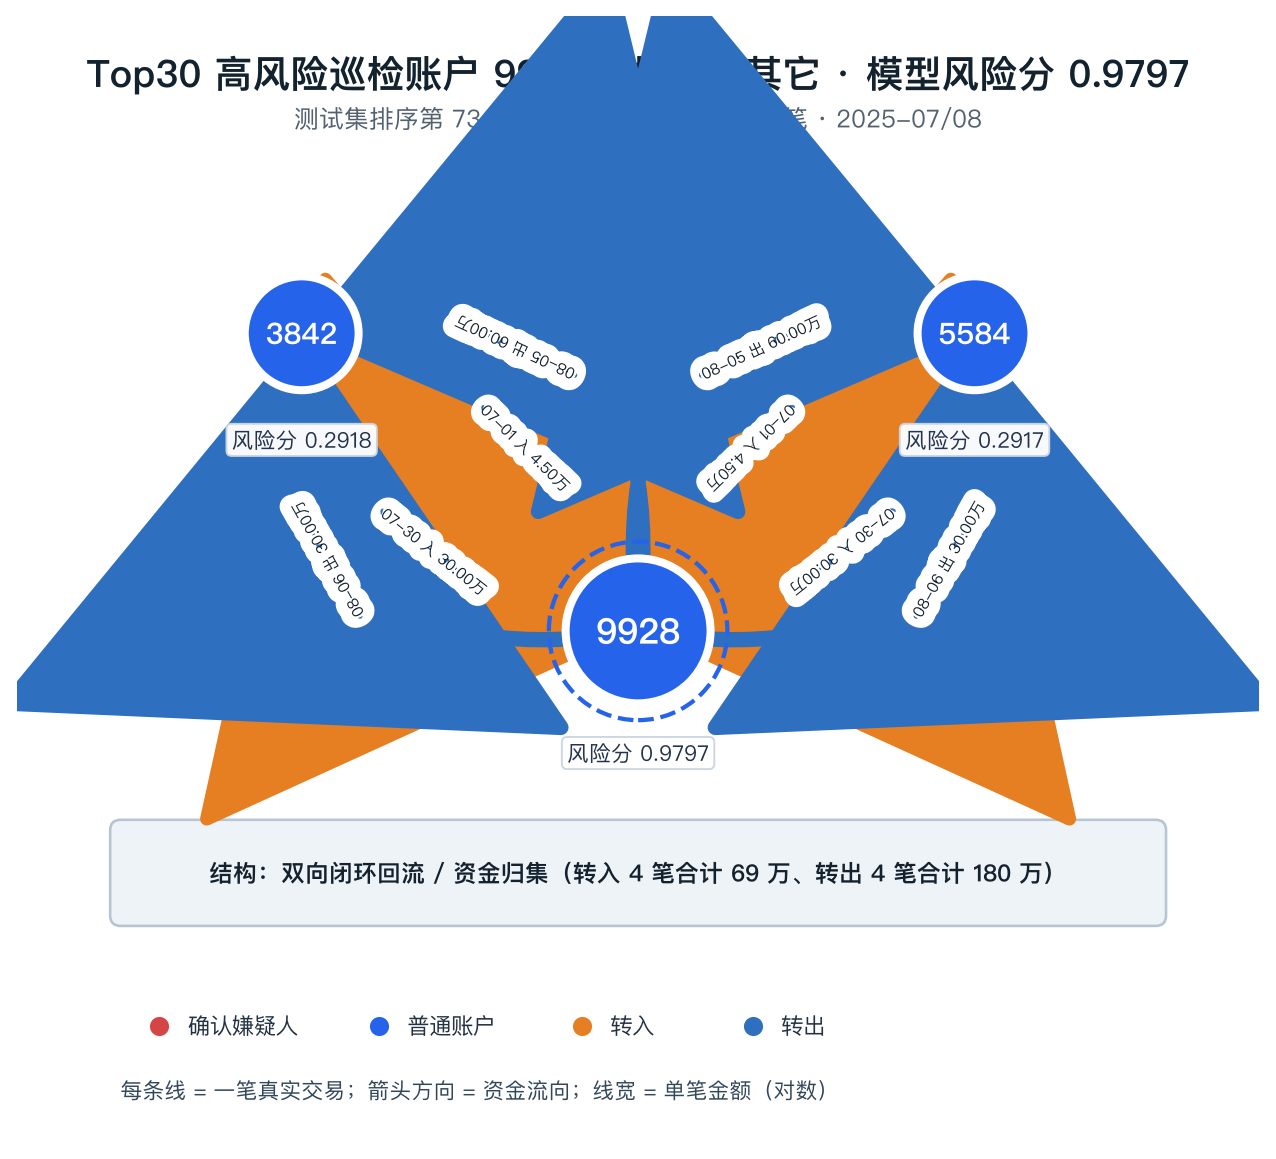
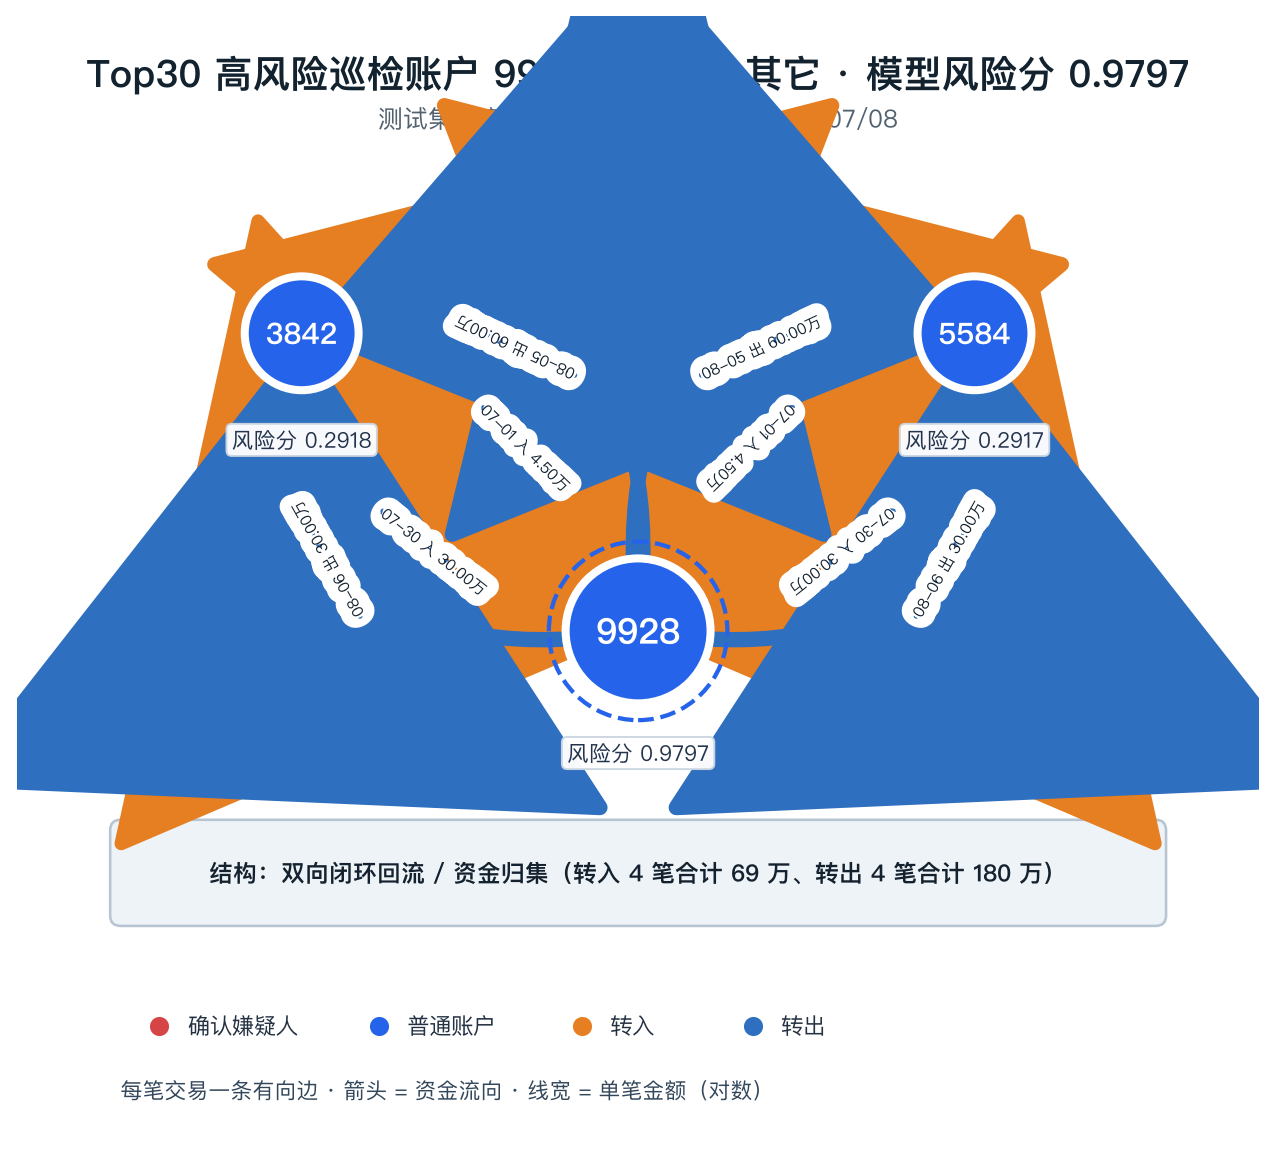
附录D图谱每笔交易一条有向边并优化文案

diff --git a/outputs/dynamic_graph/index.html b/outputs/dynamic_graph/index.html
@@ -213,7 +213,7 @@
   <main id="reportView" class="view wide"><div class="section-head"><div><h2>辅助研判报告</h2><p>报告同时引用模型风险分、交易统计、关键交易边/路径、图结构或动态特征中的至少两类证据。</p></div></div><div id="reportGrid" class="report-grid"></div><div class="subsection"><h3>报告原文</h3><pre id="rawReport" class="raw-report"></pre></div></main>
   
   <main id="evidenceView" class="view wide">
-    <div class="section-head"><div><h2>典型链路证据（测试集真实子图）</h2><p>仅展示本项目从测试集真实交易边生成的资金图谱，数据截至 2025-12-31，不含未来交易。节点颜色：红=确认嫌疑人，橙=受害人，蓝=其它；橙色箭头=转入，蓝色箭头=转出；每条线=一笔真实交易，线宽=单笔金额对数，边描述嵌在边线内（沿弧线排版，弧线在文字处断开，无底框）。</p></div></div>
+    <div class="section-head"><div><h2>典型链路证据（测试集真实子图）</h2><p>仅展示本项目从测试集真实交易边生成的资金图谱，数据截至 2025-12-31，不含未来交易。节点颜色：红=确认嫌疑人，橙=受害人，蓝=其它；橙色箭头=转入，蓝色箭头=转出；每笔交易一条有向边，线宽=单笔金额对数，边描述嵌在边线内（沿弧线排版，弧线在文字处断开，无底框）。</p></div></div>
     <div class="evidence-grid">
       <article class="evidence-card"><img src="../../docs/images/appendix_d_4379_loop.png" alt="账户4379闭环回流"><div class="card-body"><h3>账户 4379 · 确认嫌疑人 · 风险分 0.9034</h3><p>2025-11-19 15:37:53 向 10662、10949 各转出 3000 元，15:38:14 原路回流，间隔 21 秒；结构：闭环回流/快进快出。</p></div></article>
       <article class="evidence-card"><img src="../../docs/images/appendix_d_1740_star.png" alt="账户1740星状汇聚"><div class="card-body"><h3>账户 1740 · 确认嫌疑人 · 风险分 0.7460</h3><p>3863、7838 两个固定对手三期重复转入，合计 18828.88 元；结构：星状汇聚/分散入账。</p></div></article>

diff --git a/src/27_render_appendix_d_graphs.py b/src/27_render_appendix_d_graphs.py
@@ -112,8 +112,8 @@ def draw_edges(ax, fig, pos, edges: list[dict], root: int, label_fn, fontsize: f
         ru = 0.66 if u == root else 0.54
         rv = 0.66 if v == root else 0.54
         arrow = FancyArrowPatch(p1, p2, connectionstyle=f"arc3,rad={rad}",
-                                arrowstyle="-|>,head_width=4.5,head_length=6.0",
-                                mutation_scale=26, lw=width,
+                                arrowstyle="-|>,head_width=5.0,head_length=7.0",
+                                mutation_scale=27, lw=width,
                                 color=color, shrinkA=ru, shrinkB=rv, zorder=5)
         ax.add_patch(arrow)
         txt = label_fn(e, incoming)
@@ -189,7 +189,7 @@ def draw_frame(ax, title: str, subtitle: str, structure: str) -> None:
                    linewidths=1.4, zorder=6)
         ax.text(lx + 0.52, -3.05, text, ha="left", va="center", fontsize=9.5, color="#233142")
         lx += 0.52 + len(text) * 0.125 + 0.55
-    ax.text(-4.0, -3.55, "每条线 = 一笔真实交易；箭头方向 = 资金流向；线宽 = 单笔金额（对数）",
+    ax.text(-4.0, -3.55, "每笔交易一条有向边 · 箭头 = 资金流向 · 线宽 = 单笔金额（对数）",
             ha="left", va="center", fontsize=9.2, color="#33475b")
 
 
@@ -197,6 +197,8 @@ def render(root: int, positions: dict, title: str, subtitle: str, structure: str
            out_path: str, label_fn, fontsize: float = 8.2) -> None:
     edges = raw_edges(root)
     fig, ax = plt.subplots(figsize=(13.2, 8.6), dpi=170)
+    fig.patch.set_facecolor("#fbfcfe")
+    ax.set_facecolor("#fbfcfe")
     ax.set_xlim(-4.8, 4.8)
     ax.set_ylim(-3.95, 4.75)
     ax.set_aspect("equal")
@@ -223,7 +225,7 @@ def main() -> None:
         4379,
         {4379: (0, 0), 10662: (-2.6, 2.3), 10949: (2.6, 2.3)},
         "账户 4379 · 确认嫌疑人 · 模型风险分 0.9034",
-        "测试集排序第 814 名 · 4 笔交易 · 每条线=一笔 · 2025-11-19",
+        "测试集排序第 814 名 · 4 笔交易 · 2025-11-19",
         "结构：闭环回流 / 快进快出（15:37:53 转出 3000×2 → 15:38:14 原路回流，间隔 21 秒）",
         "docs/images/appendix_d_4379_loop.png",
         lambda e, inc: f"{e['time'].strftime('%H:%M:%S')} {e['amount']:,.0f}元",
@@ -233,7 +235,7 @@ def main() -> None:
         1740,
         {1740: (0, 0), 3863: (-2.6, 2.3), 7838: (2.6, 2.3)},
         "账户 1740 · 确认嫌疑人 · 模型风险分 0.7460",
-        "测试集排序第 2827 名 · 6 笔交易 · 每条线=一笔 · 2025-07/11/12",
+        "测试集排序第 2827 名 · 6 笔交易 · 2025-07/11/12",
         "结构：星状汇聚 / 分散入账（3863、7838 各 3 笔转入，合计 18,828.88 元）",
         "docs/images/appendix_d_1740_star.png",
         lambda e, inc: f"{e['time'].strftime('%m-%d')} {e['amount']:,.0f}元",
@@ -243,7 +245,7 @@ def main() -> None:
         7265,
         {7265: (0, 0), 1137: (-2.6, 2.3), 7238: (2.6, 2.3)},
         "账户 7265 · 确认嫌疑人 · 模型风险分 0.5801",
-        "测试集排序第 4906 名 · 6 笔交易 · 每条线=一笔 · 2025-11/12",
+        "测试集排序第 4906 名 · 6 笔交易 · 2025-11/12",
         "结构：星状试探 / 小额分散转出（向 1137、7238 各转出 3 笔，合计 2,633.40 元）",
         "docs/images/appendix_d_7265_star.png",
         lambda e, inc: f"{e['time'].strftime('%m-%d')} {e['amount']:,.0f}元",
@@ -253,7 +255,7 @@ def main() -> None:
         9928,
         {9928: (0, 0), 3842: (-2.6, 2.3), 5584: (2.6, 2.3)},
         "Top30 高风险巡检账户 9928 · 标签：其它 · 模型风险分 0.9797",
-        "测试集排序第 73 名 · 8 笔交易 · 每条线=一笔 · 2025-07/08",
+        "测试集排序第 73 名 · 8 笔交易 · 2025-07/08",
         "结构：双向闭环回流 / 资金归集（转入 4 笔合计 69 万、转出 4 笔合计 180 万）",
         "docs/images/appendix_d_9928_flow.png",
         lambda e, inc: f"{e['time'].strftime('%m-%d')} {'入' if inc else '出'} {fmt_amount(e['amount'])}",

diff --git a/src/09_dynamic_graph_viz.py b/src/09_dynamic_graph_viz.py
@@ -1075,7 +1075,7 @@ EVIDENCE_CSS = """
 
 EVIDENCE_VIEW = """
   <main id="evidenceView" class="view wide">
-    <div class="section-head"><div><h2>典型链路证据（测试集真实子图）</h2><p>仅展示本项目从测试集真实交易边生成的资金图谱，数据截至 2025-12-31，不含未来交易。节点颜色：红=确认嫌疑人，橙=受害人，蓝=其它；橙色箭头=转入，蓝色箭头=转出；每条线=一笔真实交易，线宽=单笔金额对数，边描述嵌在边线内（沿弧线排版，弧线在文字处断开，无底框）。</p></div></div>
+    <div class="section-head"><div><h2>典型链路证据（测试集真实子图）</h2><p>仅展示本项目从测试集真实交易边生成的资金图谱，数据截至 2025-12-31，不含未来交易。节点颜色：红=确认嫌疑人，橙=受害人，蓝=其它；橙色箭头=转入，蓝色箭头=转出；每笔交易一条有向边，线宽=单笔金额对数，边描述嵌在边线内（沿弧线排版，弧线在文字处断开，无底框）。</p></div></div>
     <div class="evidence-grid">
       <article class="evidence-card"><img src="../../docs/images/appendix_d_4379_loop.png" alt="账户4379闭环回流"><div class="card-body"><h3>账户 4379 · 确认嫌疑人 · 风险分 0.9034</h3><p>2025-11-19 15:37:53 向 10662、10949 各转出 3000 元，15:38:14 原路回流，间隔 21 秒；结构：闭环回流/快进快出。</p></div></article>
       <article class="evidence-card"><img src="../../docs/images/appendix_d_1740_star.png" alt="账户1740星状汇聚"><div class="card-body"><h3>账户 1740 · 确认嫌疑人 · 风险分 0.7460</h3><p>3863、7838 两个固定对手三期重复转入，合计 18828.88 元；结构：星状汇聚/分散入账。</p></div></article>

diff --git a/docs/附录D_资金图谱可视化与缺边审计.md b/docs/附录D_资金图谱可视化与缺边审计.md
@@ -28,7 +28,7 @@
 
 ## 图例与口径说明
 
-节点颜色：**红色=确认嫌疑人，橙色=受害人，蓝色=其它**，颜色即代表账户标签，节点下方仅显示账户 ID 与模型风险分；橙色箭头=转入，蓝色箭头=转出；**每条线=一笔真实交易**，线宽=单笔金额（对数）。边描述嵌在边线内：文字沿弧线方向排版，无底框，弧线在文字处断开、以白色描边保证可读性，显示单笔时间与金额；同一对手的重复交易分居弧线两侧并用不同弧度错开，避免文字遮挡节点。所有图谱只使用截至测试期截止（2025-12-31）的历史交易，未使用未来交易。
+节点颜色：**红色=确认嫌疑人，橙色=受害人，蓝色=其它**，颜色即代表账户标签，节点下方仅显示账户 ID 与模型风险分；橙色箭头=转入，蓝色箭头=转出；**每笔交易绘制一条有向边**，线宽=单笔金额（对数）。边描述嵌在边线内：文字沿弧线方向排版，无底框，弧线在文字处断开、以白色描边保证可读性，显示单笔时间与金额；同一对手的重复交易分居弧线两侧并用不同弧度错开，避免文字遮挡节点。所有图谱只使用截至测试期截止（2025-12-31）的历史交易，未使用未来交易。
 
 ## 数据局限与缺边审计
 
